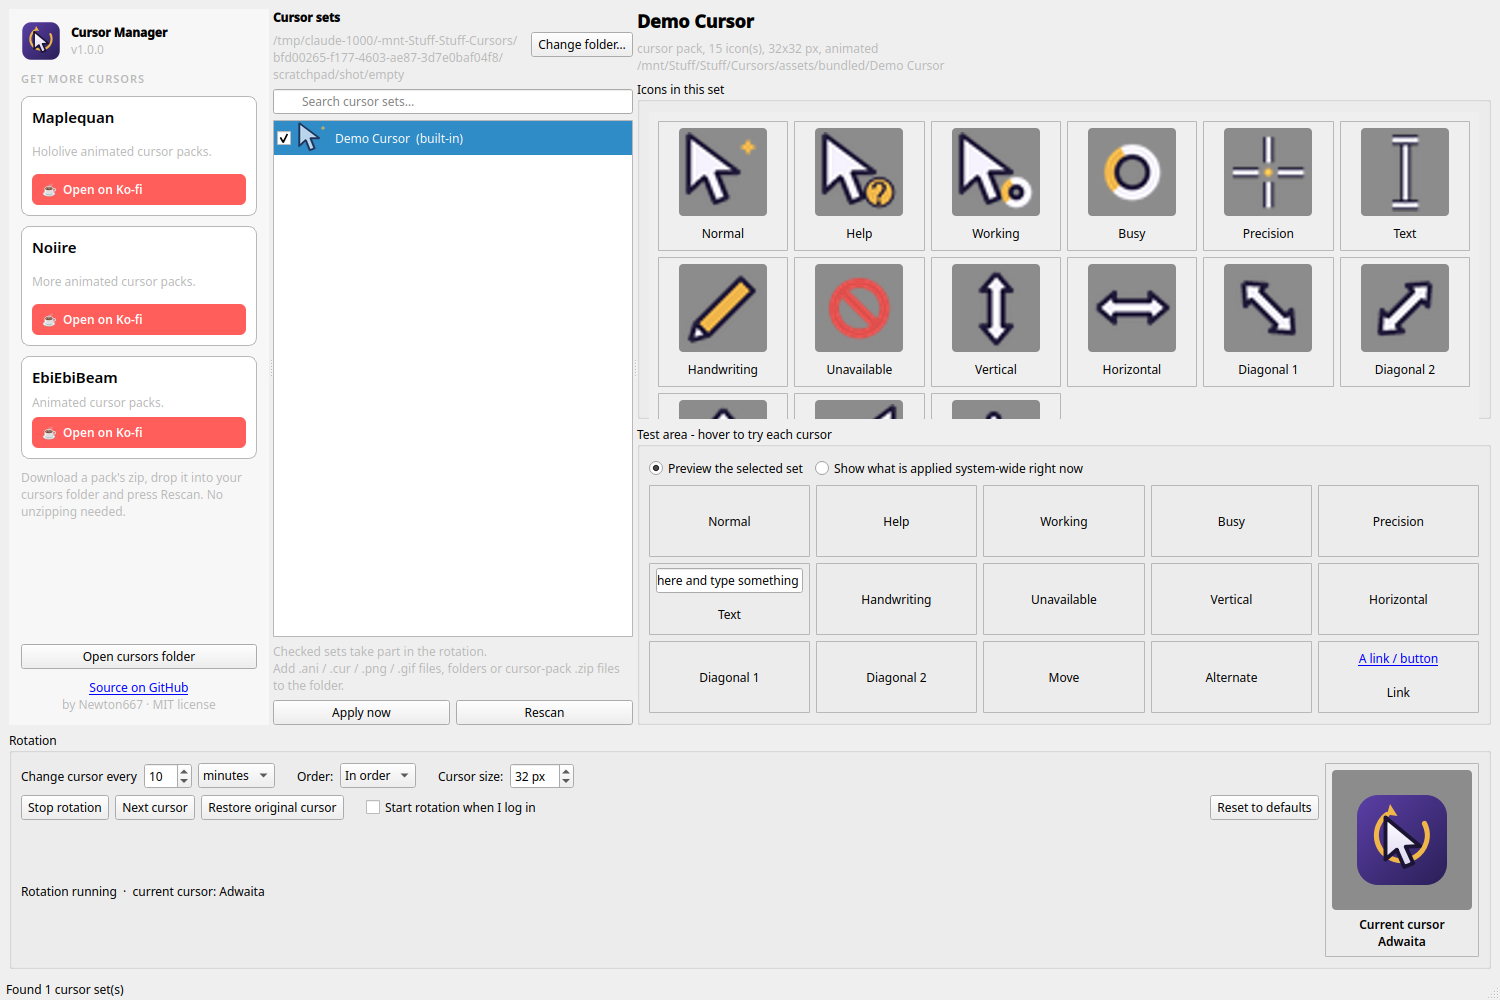
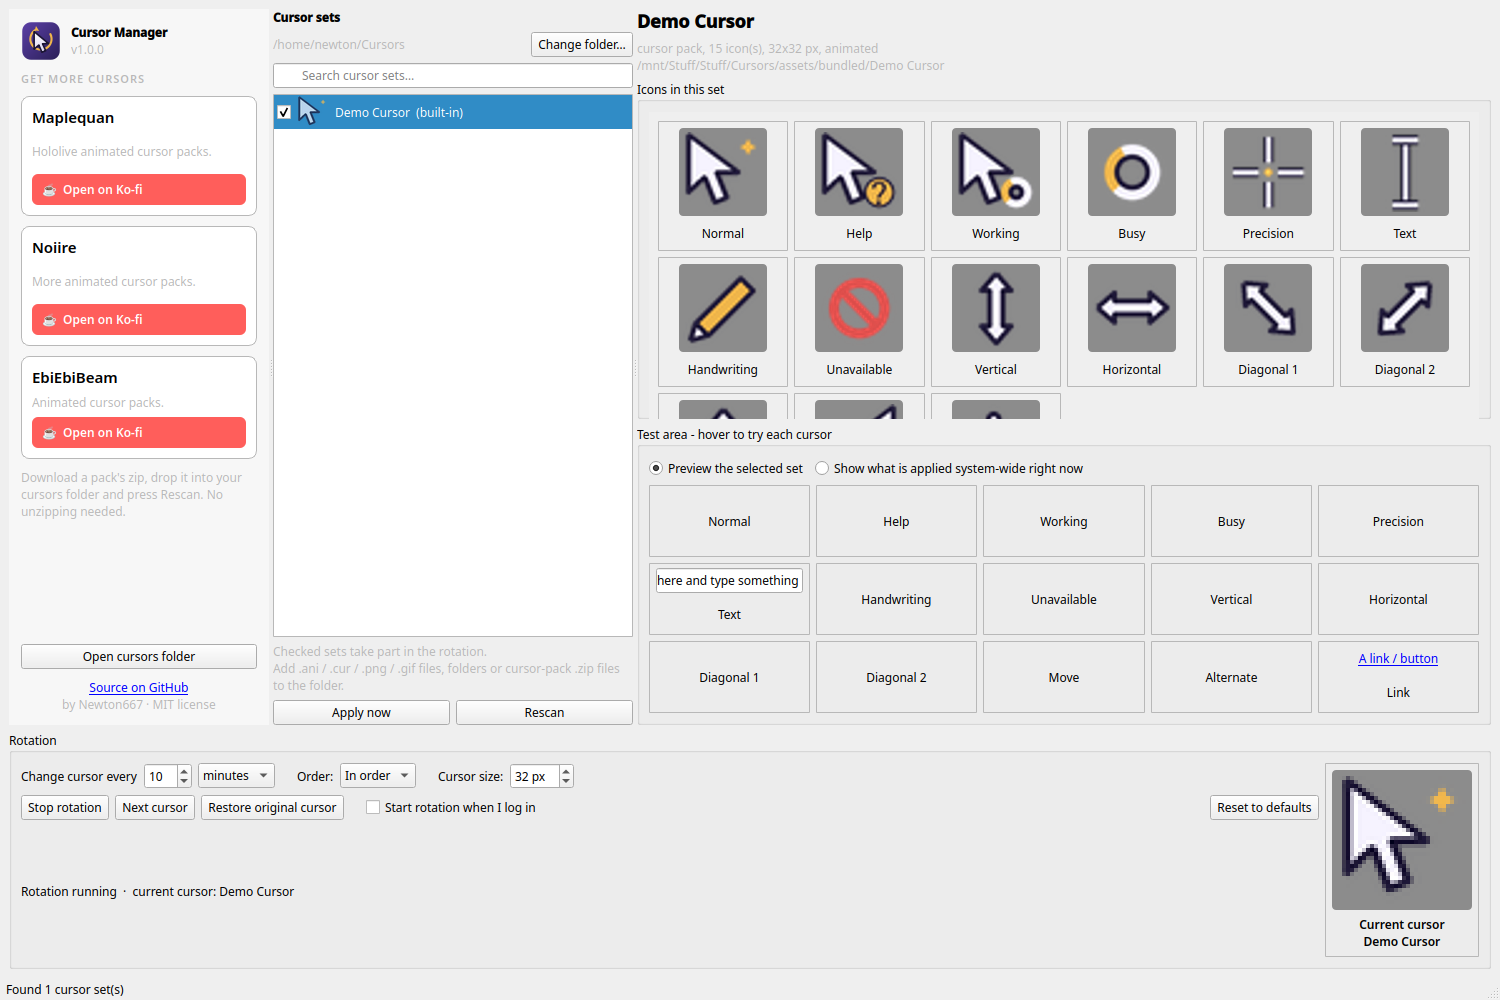
README: fix clone folder name; cleaner screenshot
Claude-Session: https://claude.ai/code/session_01YFF1xMhhuV48ihvgUNsBYi

diff --git a/README.md b/README.md
@@ -37,7 +37,7 @@ own tools, so there is nothing to port to Windows or macOS.
 
 ```bash
 git clone https://github.com/Newton667/SimpleAnimatedCursorManager-Binux-.git
-cd SimpleAnimatedCursorManager-inux-
+cd SimpleAnimatedCursorManager-Binux-
 ./install.sh
 ```
 
